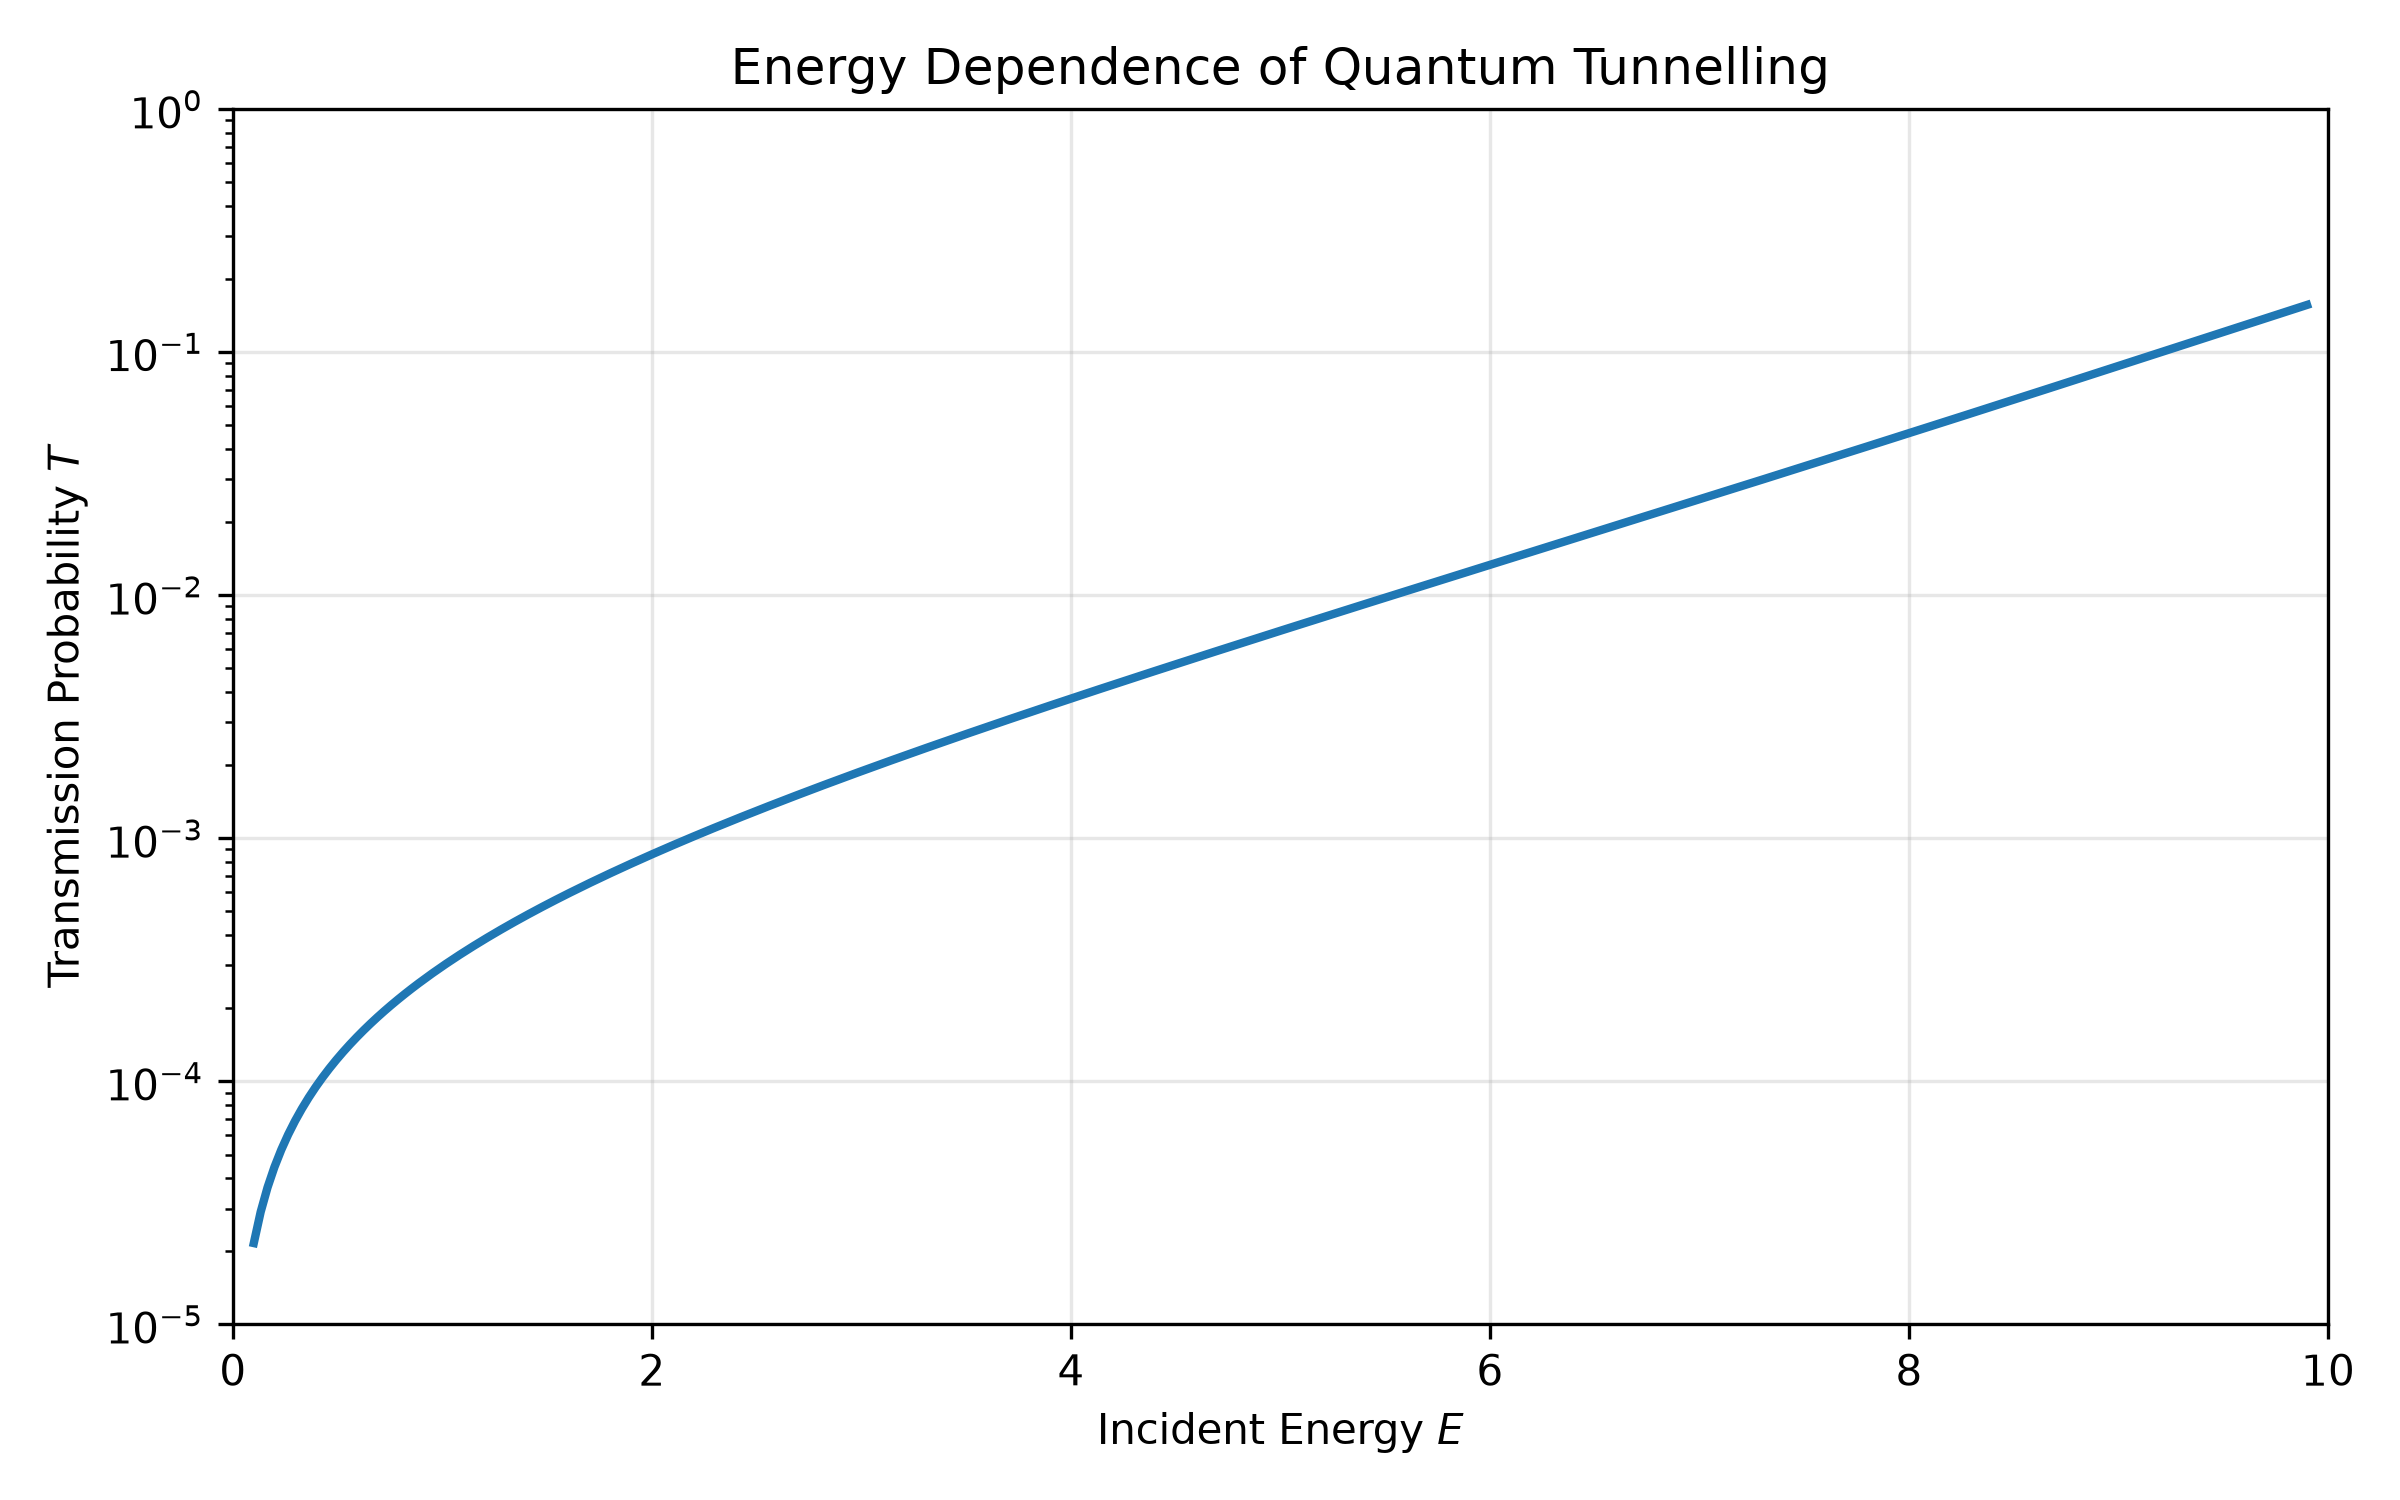
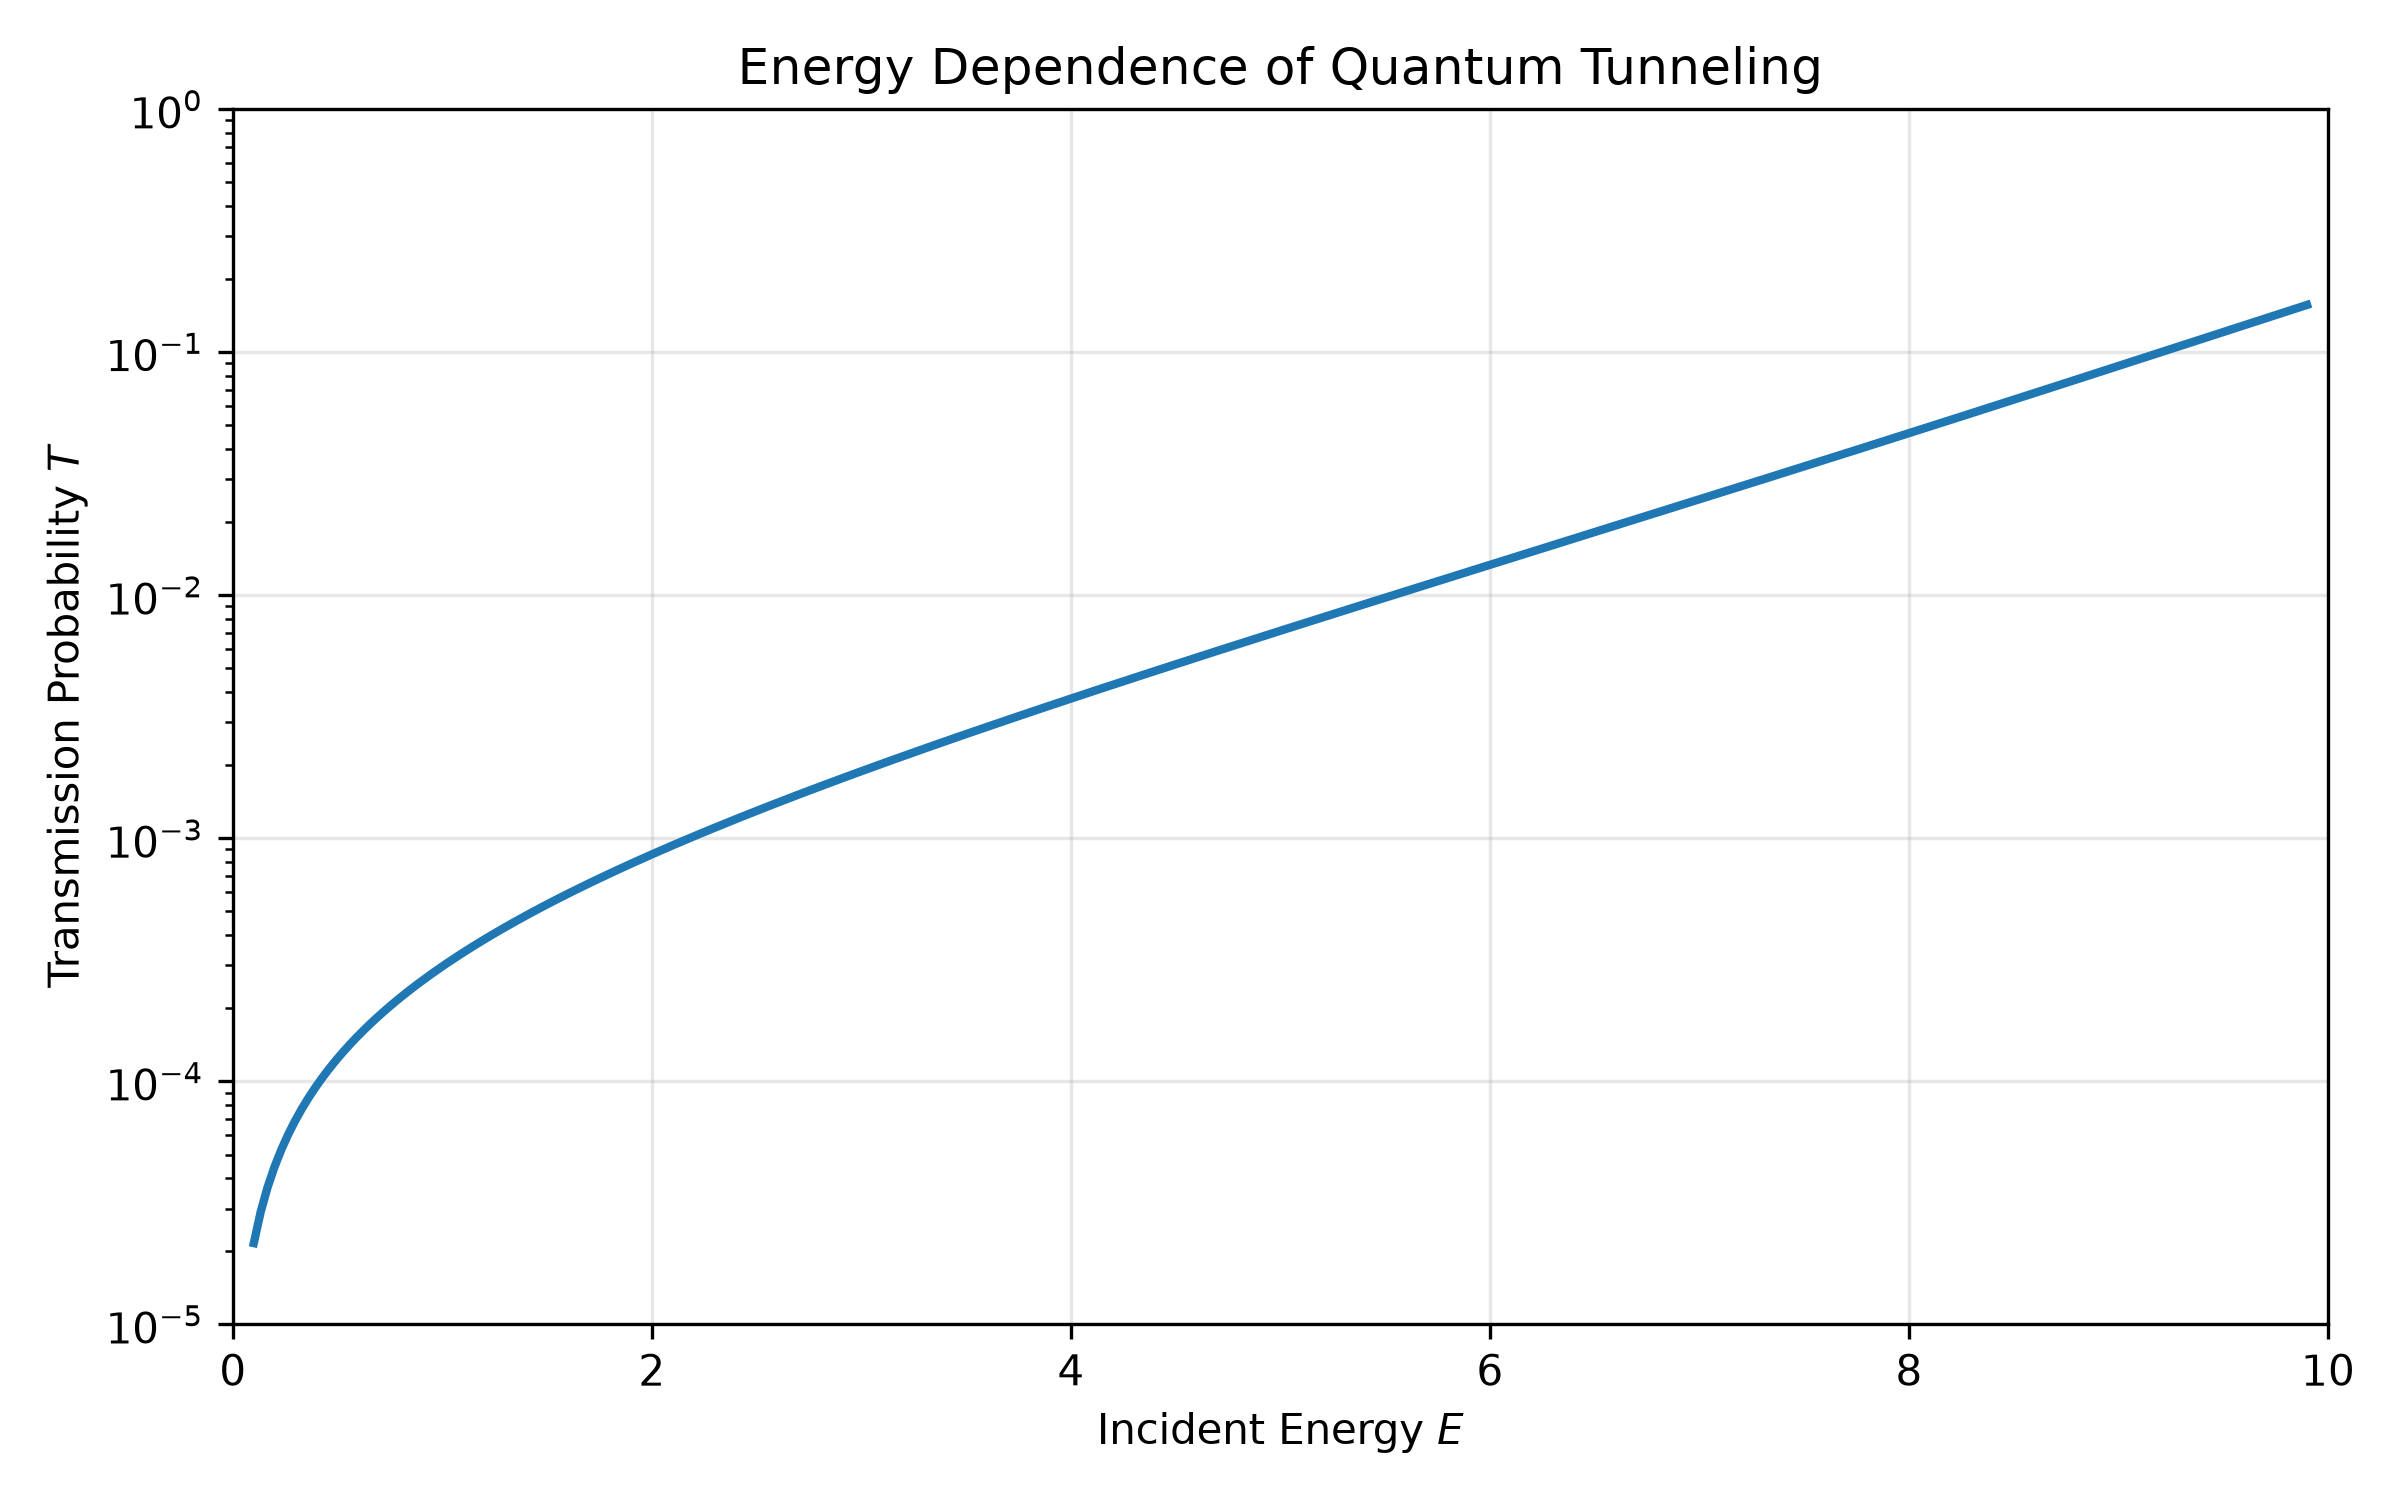
Complete project documentation and final validation

Changed region(s): [[0.2812, 0.0307, 0.7812, 0.0613]]

diff --git a/README.md b/README.md
@@ -3,7 +3,7 @@
 A Python project for computationally exploring fundamental models in one-dimensional quantum mechanics using analytical
 solutions and numerical finite-difference methods.
 
-## Current Contents
+## Physical Systems
 
 ### Infinite Square Well
 
@@ -205,8 +205,9 @@ For the selected well parameters:
 - Ground-state energy: approximately $2.81$
 - First excited-state energy: approximately $10.73$
 
-Increasing the grid points from 400 to 800 changes both energies by approximately $0.2%$, indicating reasonable numerical
-convergence.
+The changes between consecutive grid sizes decrease systematically as the
+grid is refined, demonstrating that both bound-state energies approach
+stable numerical values.
 
 ![Finite well convergence test](figures/finite_well_convergence.png)
 
@@ -642,9 +643,9 @@ physical systems being studied.
 - Investigates the effect of barrier height on transmission probability
 - Uses reusable numerical functions through a shared utility module
 
-## Tools
+## Requirements
 
-- Python
+- Python 3.10 or later
 - NumPy
 - Matplotlib
 
@@ -655,6 +656,27 @@ For simplification, calculations use natural units where appropriate:
 - $\hbar = 1$
 - $m = 1$
 - $L = 1$ for the infinite square well
+
+## How to Run
+
+Install the required packages:
+
+```bash
+pip install -r requirements.txt
+```
+
+Run any study independently from the project directory. For example:
+
+```bash
+python infinite_square_well.py
+python finite_square_well.py
+python harmonic_oscillator.py
+python quantum_tunneling.py
+```
+
+Additional validation, convergence, and parameter-study scripts can also be run independently.
+
+Generated figures are saved in the `figures/` directory.
 
 ## Project Structure
 
@@ -689,7 +711,7 @@ one_dimensional_quantum_systems/
 ├── finite_well_convergence.py
 ├── finite_well_depth_study.py
 ├── finite_well_parity.py
-├── finite_well_wavefunction.py
+├── finite_well_wavefunction_decay.py
 ├── finite_well_width_study.py
 ├── harmonic_oscillator.py
 ├── ho_domain_convergence.py
@@ -701,13 +723,16 @@ one_dimensional_quantum_systems/
 ├── infinite_well_wavefunction_comparison.py
 ├── quantum_tunneling.py
 ├── quantum_utils.py
-├──tunneling_energy_study.py
-├──tunneling_width_study.py
+├── tunneling_energy_study.py
 ├── tunneling_height_study.py
+├── tunneling_width_study.py
+├── requirements.txt
 ├── .gitignore
 └── README.md
 ```
 
 ## Status
 
-This project is currently under development.
+The main computational studies are complete. All simulation scripts have
+been tested successfully, and the numerical results agree with analytical
+solutions or expected physical behavior.